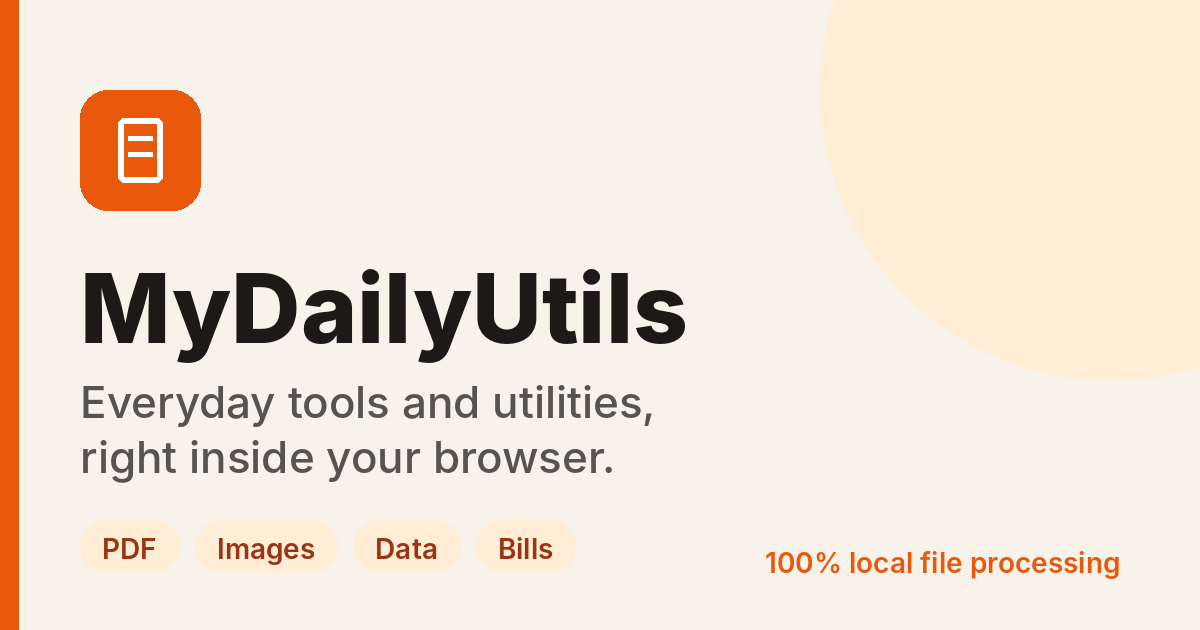
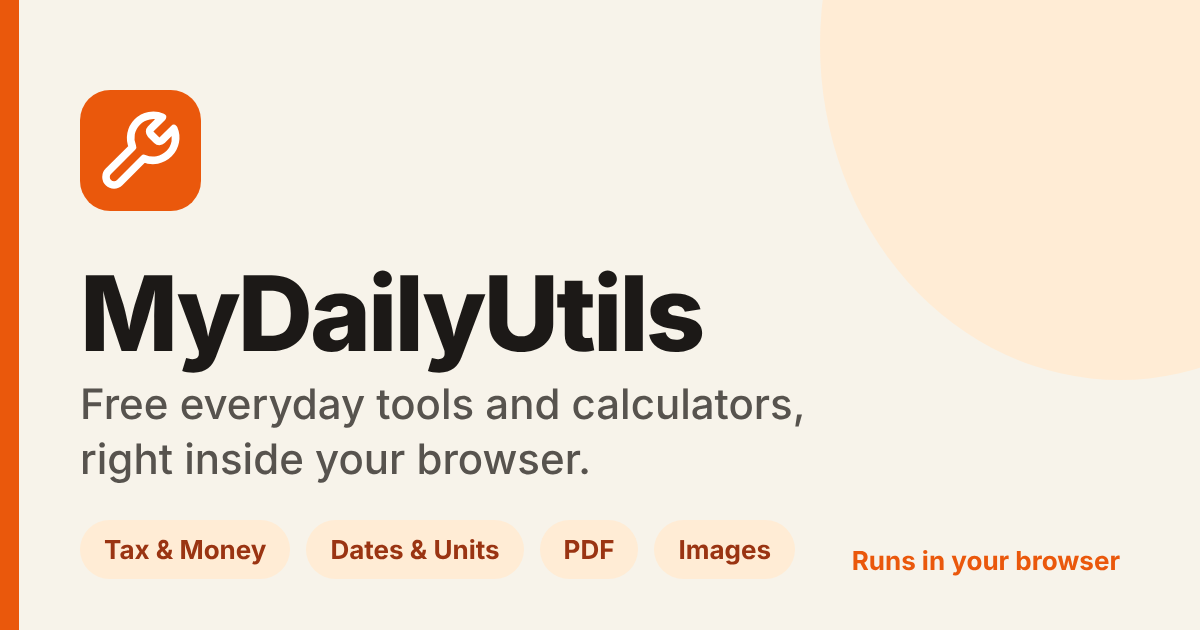
Rebrand copy and docs as general-purpose utilities (#19)
Home/meta titles and descriptions, About/Privacy/Terms, social preview image,
popular tiles now mix categories; refresh README, README.txt and TESTING notes.

Claude-Session: https://claude.ai/code/session_01Ksfpb8M2AoR8DnvaaKvMx3

diff --git a/index.html b/index.html
@@ -6,22 +6,22 @@
     <meta name="viewport" content="width=device-width, initial-scale=1.0" />
     <meta name="theme-color" content="#f7f3eb" />
     <meta name="robots" content="index, follow" />
-    <title>Online Tools &amp; Utilities | PDF, Images &amp; More | MyDailyUtils</title>
-    <meta name="description" content="Explore browser-based tools and utilities for files, data, and everyday tasks. PDF, images, and more, with supported file processing done locally in your browser." />
+    <title>Free Online Tools &amp; Calculators | PDF, Images, Tax &amp; More | MyDailyUtils</title>
+    <meta name="description" content="Free online tools for everyday tasks: income tax, EMI and SIP calculators, age and date tools, unit converter, PDF and image tools, text and password utilities. Files and numbers are processed in your browser." />
     <link rel="canonical" href="https://www.mydailyutils.in/" />
     <meta property="og:type" content="website" />
     <meta property="og:site_name" content="MyDailyUtils" />
-    <meta property="og:title" content="Online Tools &amp; Utilities | PDF, Images &amp; More | MyDailyUtils" />
-    <meta property="og:description" content="Explore browser-based tools and utilities for files, data, and everyday tasks. PDF, images, and more, with supported file processing done locally in your browser." />
+    <meta property="og:title" content="Free Online Tools &amp; Calculators | PDF, Images, Tax &amp; More | MyDailyUtils" />
+    <meta property="og:description" content="Free online tools for everyday tasks: income tax, EMI and SIP calculators, age and date tools, unit converter, PDF and image tools, text and password utilities. Files and numbers are processed in your browser." />
     <meta property="og:url" content="https://www.mydailyutils.in/" />
     <meta property="og:image" content="https://www.mydailyutils.in/og-image.png" />
     <meta property="og:image:width" content="1200" />
     <meta property="og:image:height" content="630" />
-    <meta property="og:image:alt" content="MyDailyUtils: everyday tools and utilities, right inside your browser" />
+    <meta property="og:image:alt" content="MyDailyUtils: free everyday tools and calculators, right inside your browser" />
     <meta name="twitter:card" content="summary_large_image" />
     <meta name="twitter:image" content="https://www.mydailyutils.in/og-image.png" />
-    <meta name="twitter:title" content="Online Tools &amp; Utilities | PDF, Images &amp; More | MyDailyUtils" />
-    <meta name="twitter:description" content="Explore browser-based tools and utilities for files, data, and everyday tasks. PDF, images, and more, with supported file processing done locally in your browser." />
+    <meta name="twitter:title" content="Free Online Tools &amp; Calculators | PDF, Images, Tax &amp; More | MyDailyUtils" />
+    <meta name="twitter:description" content="Free online tools for everyday tasks: income tax, EMI and SIP calculators, age and date tools, unit converter, PDF and image tools, text and password utilities. Files and numbers are processed in your browser." />
 
     <!-- Google Tag Manager (analytics). Consent defaults to "denied" in the EEA, UK and Switzerland until the visitor chooses in Google's consent message. -->
     <script>

diff --git a/src/pages/AboutPage.tsx b/src/pages/AboutPage.tsx
@@ -9,13 +9,13 @@ export const AboutPage: React.FC = () => {
     <InfoPageLayout
         title="About MyDailyUtils"
         subtitle="Simple browser-based tools for everyday tasks."
-        description="Learn about MyDailyUtils online tools and utilities for files, data, and everyday tasks, how local file processing works, and how to get support."
+        description="Learn about MyDailyUtils, a growing set of free online tools and calculators for everyday tasks, how in-browser processing works, and how to get support."
       >
 
       <section className="space-y-3">
         <h2 className="text-xl font-bold text-slate-900">What you can do here</h2>
         <p>
-          <strong>MyDailyUtils</strong> is a collection of practical browser tools for working with PDFs, images, text and data, presentations, and shop bills. You can combine or organize PDF pages, convert images, inspect or format data, build a presentation, or prepare a bill without installing a desktop application.
+          <strong>MyDailyUtils</strong> is a growing collection of free, practical tools that run in your browser. Work out income tax, salary, EMI, SIP and GST, find an age or the days between two dates, convert units, count words, write an amount in words, generate a strong password, resize or compress images, work with PDF pages, format data, build a presentation or prepare a shop bill, all without installing anything.
         </p>
         <p>
           Choose a tool from the home page, add the files or information it asks for, review the result, and download it when you are ready. Each tool page includes instructions and answers to common questions about that task.

diff --git a/src/config/tools.ts b/src/config/tools.ts
@@ -78,7 +78,7 @@ export const TOOLS: ToolItem[] = [
     icon: 'scissors',
     isPopularInternet: true,
     isAvailable: true,
-    tier: 'popular',
+    tier: 'more',
     keywords: ['split', 'extract', 'pages', 'pdf'],
   },
   {
@@ -137,7 +137,7 @@ export const TOOLS: ToolItem[] = [
     icon: 'image',
     isPopularInternet: true,
     isAvailable: true,
-    tier: 'popular',
+    tier: 'more',
     keywords: ['image', 'jpg', 'jpeg', 'png', 'webp', 'convert', 'pdf'],
   },
   {
@@ -257,7 +257,7 @@ export const TOOLS: ToolItem[] = [
     icon: 'image',
     isPopularInternet: true,
     isAvailable: true,
-    tier: 'popular',
+    tier: 'more',
     keywords: ['images', 'png', 'jpg', 'render', 'extract', 'pdf to image', 'pdf'],
   },
   {
@@ -434,7 +434,7 @@ export const TOOLS: ToolItem[] = [
     path: '/income-tax-calculator',
     icon: 'calculator',
     isAvailable: true,
-    tier: 'more',
+    tier: 'popular',
     keywords: ['income tax', 'tax', 'old regime', 'new regime', 'salary', '80c', 'itr', 'calculator', 'india'],
   },
   {
@@ -467,7 +467,7 @@ export const TOOLS: ToolItem[] = [
     path: '/emi-calculator',
     icon: 'calculator',
     isAvailable: true,
-    tier: 'more',
+    tier: 'popular',
     keywords: ['emi', 'loan', 'home loan', 'car loan', 'personal loan', 'interest', 'calculator', 'repayment'],
   },
   {
@@ -555,7 +555,7 @@ export const TOOLS: ToolItem[] = [
     path: '/age-calculator',
     icon: 'calculator',
     isAvailable: true,
-    tier: 'more',
+    tier: 'popular',
     keywords: ['age', 'date of birth', 'dob', 'birthday', 'years months days', 'calculator'],
   },
   {

diff --git a/src/pages/PrivacyPage.tsx b/src/pages/PrivacyPage.tsx
@@ -20,7 +20,7 @@ export const PrivacyPage: React.FC = () => {
           The website loads pages and third-party resources. Some PDF tools request character-map files from jsDelivr when needed to render or read certain PDFs. These are supporting resources; the selected PDF is not sent to jsDelivr for processing. Local file processing does not mean the website is offline or makes no network requests.
         </p>
         <p>
-          Document digitization downloads its OCR worker, engine and English language model from this site. Recognition runs in the browser on the edited document; images and recognized text are not uploaded for OCR. Browser or network caches may retain the downloaded engine and model, but not the selected document through this feature.
+          Calculators, converters, the word counter and the password generator run entirely in your browser: the numbers and text you enter are not sent to MyDailyUtils, and generated passwords are neither sent nor stored. Document digitization downloads its OCR worker, engine and English language model from this site. Recognition runs in the browser on the edited document; images and recognized text are not uploaded for OCR. Browser or network caches may retain the downloaded engine and model, but not the selected document through this feature.
         </p>
       </section>
 

diff --git a/src/prerender/shellData.ts b/src/prerender/shellData.ts
@@ -282,7 +282,7 @@ export function getShellPages(): ShellPage[] {
   const home: ShellPage = {
     kind: 'home',
     path: '/',
-    title: 'Online Tools & Utilities',
+    title: 'Free Online Tools & Calculators',
     description: siteConfig.description,
     heading: `${en.homeHeading} ${en.homeHeadingAccent}`,
     subtitle: en.homeDescription,
@@ -319,7 +319,7 @@ export function getShellPages(): ShellPage[] {
       title: 'Guides',
       description: 'Step-by-step guides: reduce photo size for online forms, merge and compress PDFs, choose between the old and new tax regime, calculate EMI, SIP, HRA and GST.',
       heading: 'Guides',
-      subtitle: 'Plain-language how-to guides for PDFs, images, tax and money calculations.',
+      subtitle: 'Plain-language how-to guides for PDFs, images, tax, money, dates and everyday calculations.',
       steps: [],
       faqs: [],
       article: [{ heading: 'All guides', paragraphs: GUIDES.map((guide) => `${guide.title}: ${guide.description}`) }],

diff --git a/src/pages/TermsPage.tsx b/src/pages/TermsPage.tsx
@@ -20,7 +20,7 @@ export const TermsPage: React.FC = () => {
       <section className="space-y-3">
         <h2 className="text-xl font-bold text-slate-900">2. Description of Service</h2>
         <p>
-          MyDailyUtils provides browser-based tools for PDF, image, data, display, and business tasks. Supported file processing runs in your browser; selected files are not uploaded to MyDailyUtils for processing. The Contact form and third-party advertising are separate services that make network requests.
+          MyDailyUtils provides browser-based tools and calculators for everyday, finance, text, PDF, image, data, display, and business tasks. Supported file processing runs in your browser; selected files are not uploaded to MyDailyUtils for processing. The Contact form and third-party advertising are separate services that make network requests.
         </p>
       </section>
 

diff --git a/src/config/site.ts b/src/config/site.ts
@@ -8,8 +8,8 @@ export const siteConfig = {
   contactEmail: 'mydailyutils@gmail.com',
   tagline: 'Everyday tools and utilities, right inside your browser.',
   description:
-    'Useful browser-based tools and utilities for files, data, and everyday tasks. All file processing happens in your browser. Request a free utility if you cannot find what you need.',
-  privacyHook: '100% local file processing',
+    'Free browser-based tools and calculators for everyday tasks: tax, loans and savings, dates, units, text, passwords, images and PDFs. Files and numbers are processed in your browser. Request a free tool if you cannot find what you need.',
+  privacyHook: 'Runs in your browser',
   /** Added after a tool's name in its page title, for example "Merge PDF Online Free, No Upload | MyDailyUtils". */
   toolTitleSuffix: 'Online Free, No Upload',
 };

diff --git a/src/pages/HomePage2.tsx b/src/pages/HomePage2.tsx
@@ -10,8 +10,8 @@ export const HomePage2: React.FC = () => {
   return (
     <div className="min-h-full space-y-3 bg-[var(--theme-background)] pb-12">
       <PageMetadata
-        title="Online Tools & Utilities | PDF, Images & More"
-        description="Explore browser-based tools and utilities for files, data, and everyday tasks. PDF, images, and more, with supported file processing done locally in your browser."
+        title="Free Online Tools & Calculators | PDF, Images, Tax & More"
+        description="Free online tools for everyday tasks: income tax, EMI and SIP calculators, age and date tools, unit converter, PDF and image tools, text and password utilities. Files and numbers are processed in your browser."
         jsonLd={buildHomeJsonLd()}
       />
       <HomeTopBanner query={query} onQueryChange={setQuery} />

diff --git a/src/lib/homePageVariants.ts b/src/lib/homePageVariants.ts
@@ -12,7 +12,7 @@ export interface FeaturedTool {
 }
 
 /** Display order for the homepage "Most used" row and the "Workspaces" row. */
-const POPULAR_ORDER = ['merge-pdf', 'split-pdf', 'compress-pdf', 'image-to-pdf', 'pdf-to-images', 'image-compressor'];
+const POPULAR_ORDER = ['merge-pdf', 'compress-pdf', 'image-compressor', 'income-tax-calculator', 'emi-calculator', 'age-calculator'];
 const WORKSPACE_ORDER = ['master-document-studio', 'digitize-documents', 'pos-invoice-studio', 'display-studio'];
 
 export const HOME_CATEGORY_STYLES: Record<ToolCategory, { icon: string; panel: string }> = {

diff --git a/src/pages/GuidesPage.tsx b/src/pages/GuidesPage.tsx
@@ -6,7 +6,7 @@ import { GUIDES } from '../content/guides';
 export const GuidesPage: React.FC = () => (
   <InfoPageLayout
     title="Guides"
-    subtitle="Plain-language how-to guides for PDFs, images, tax and money calculations."
+    subtitle="Plain-language how-to guides for PDFs, images, tax, money, dates and everyday calculations."
     description="Step-by-step guides: reduce photo size for online forms, merge and compress PDFs, choose between the old and new tax regime, calculate EMI, SIP, HRA and GST."
     contentLanguage="en"
   >

diff --git a/README.md b/README.md
@@ -1,6 +1,6 @@
 # MyDailyUtils
 
-Browser-based tools for PDFs, images, text and data, presentations, and billing. The application is built with React, TypeScript, Vite, Tailwind CSS, and pnpm.
+A growing collection of free, browser-based everyday tools: finance and tax calculators, date, unit and percentage tools, text and password utilities, image and PDF tools, data formatters, presentations, and billing. PDF is one category among several, not the focus of the site. The application is built with React, TypeScript, Vite, Tailwind CSS, and pnpm.
 
 ## Development
 
@@ -15,6 +15,7 @@ Browser-based tools for PDFs, images, text and data, presentations, and billing.
 - `src/App.tsx` defines the lazy-loaded routes and shared header and footer. A catch-all `*` route renders `src/pages/NotFoundPage.tsx` (localized, links to popular tools, and `noindex` through `PageMetadata`). Static hosts still answer unknown URLs with the SPA shell, so the `noindex` tag is what keeps those URLs out of search results.
 - `src/pages/` connects route-specific headings and guides to tool components.
 - The unlisted `/ac1` catalog trial offers designs for 4, 6, 9 or 12 products, including arched, asymmetric, side-panel and list layouts. Its English-only editor uses local sample photos, in-memory text and image edits (uploaded photos fit inside their frames by default, with per-photo zoom and vertical positioning), and browser-side PNG export for A4 and Instagram sizes. Changes are lost on reload.
+- Tool categories (`ToolCategory` in `src/config/tools.ts`): `pdf`, `media`, `finance`, `everyday`, `text`, `dev`, `display`, `business`. The homepage "Most used" row deliberately mixes categories (PDF, image, tax, loan and age tools); keep it mixed as the catalog grows. Footer columns, `HOME_CATEGORY_ORDER`, category copy (`categories` in `en.json`) and the static page generator all need an entry when a category is added.
 - `src/components/tools/` contains the interactive tools; `src/lib/pdf/`, `src/lib/media/`, `src/lib/documentStudio/`, `src/lib/display/`, and `src/lib/pos/` contain domain-specific processing and helpers.
 - `src/components/layout/ToolLayout.tsx`, `src/components/common/ToolGuide.tsx`, and `src/components/common/FileDropZone.tsx` provide the shared tool-page presentation and file selection patterns. Use the `wide` layout for workspaces that need additional room.
 - `src/config/tools.ts` defines the tool catalog and categories. Every tool has a `tier`: `popular` (compact "Most used" tiles), `workspace` (slim "Workspaces" cards using the `featuredTools` copy), `more` (always-expanded "More tools" groups by category) or `advanced` (footer only). Ordering, tier helpers and search are in `src/lib/homePageVariants.ts`; search covers every tier so footer-only tools stay findable. Homepage components live in `src/components/home/`. The footer (`src/components/layout/Footer.tsx`) lists every available tool in category columns plus a Company column.
@@ -40,7 +41,7 @@ Browser-based tools for PDFs, images, text and data, presentations, and billing.
 
 ## Processing and privacy
 
-Supported file operations run in the browser; this does not mean that the entire site is offline. The site loads third-party advertising and may request PDF character maps from jsDelivr. The contact form separately sends its submitted details to Web3Forms. The privacy and terms pages describe these boundaries and must remain consistent with actual behavior. Language preferences and tool-visit counts use browser local storage. POS profiles and inventory can be explicitly saved, replaced, loaded, or deleted in IndexedDB via `src/lib/pos/profileStorage.ts`; bills and customer details are not saved there. Profile and bill JSON downloads remain the portable backup. Browser storage can be cleared or unavailable, so it is not a substitute for a backup.
+Supported file operations, calculators and text tools run in the browser; this does not mean that the entire site is offline. The site loads third-party advertising and may request PDF character maps from jsDelivr. The contact form separately sends its submitted details to Web3Forms. The privacy and terms pages describe these boundaries and must remain consistent with actual behavior. Language preferences and tool-visit counts use browser local storage. POS profiles and inventory can be explicitly saved, replaced, loaded, or deleted in IndexedDB via `src/lib/pos/profileStorage.ts`; bills and customer details are not saved there. Profile and bill JSON downloads remain the portable backup. Browser storage can be cleared or unavailable, so it is not a substitute for a backup.
 
 Document digitization uses Tesseract.js with the English model. Vite serves and emits the worker, engine variants and language data from installed npm packages under `ocr-assets/`; they are downloaded from the application origin when needed. OCR runs on the rendered, edited pages after blackouts, and a text-only layer is added to the PDF. Separate output groups copies by source image into a ZIP. OCR is approximate and users should review the result. The digitization workspace does not offer password protection because the existing protection implementation rasterizes the PDF and removes searchable text. The reused Master Studio editor still has English-only controls.
 

diff --git a/TESTING.md b/TESTING.md
@@ -1,5 +1,31 @@
 # Testing notes
 
+## Baseline: November 8, 2026 (everyday utilities)
+
+Checks for the batch that added 12 tools (simple/compound interest, RD, CAGR, age,
+date difference, percentage, discount, unit converter, word counter, case
+converter, number to words, password generator) and the general-purpose rebrand.
+The working environment for this batch had no installed packages and no network,
+so the full `pnpm build` and `pnpm lint` could not be run there. Run both after
+merging and treat the first hosted build as the real check.
+
+- The calculation modules in `src/lib/utilities/` were type-checked with `tsc
+  --strict` and exercised with a Node script: leap-day and short-month age
+  arithmetic, next-birthday on 29 February, weekday counts, text statistics,
+  case conversion, rupee amounts in Indian and international words, unit
+  factors including temperature, interest, recurring deposit and CAGR figures.
+  Two defects found this way (negative days in some month-end ranges and word
+  splitting in mixed-case text) were fixed.
+- `en.json` was parsed after the edits and every new tool id was confirmed to
+  have catalog, steps and article entries.
+- The social preview image was regenerated and viewed.
+- Not checked: rendering of the new components in a browser, mobile layout,
+  the generated static pages and sitemap, other-language fallbacks for new keys.
+
+The November 7 baseline below is historical: it predates the finance, guides,
+image resizer and utilities work, and its "27 tool routes" count is out of date
+(the catalog now has well over fifty).
+
 ## Baseline: November 7, 2026
 
 The following checks were performed on the then-current working tree, including
